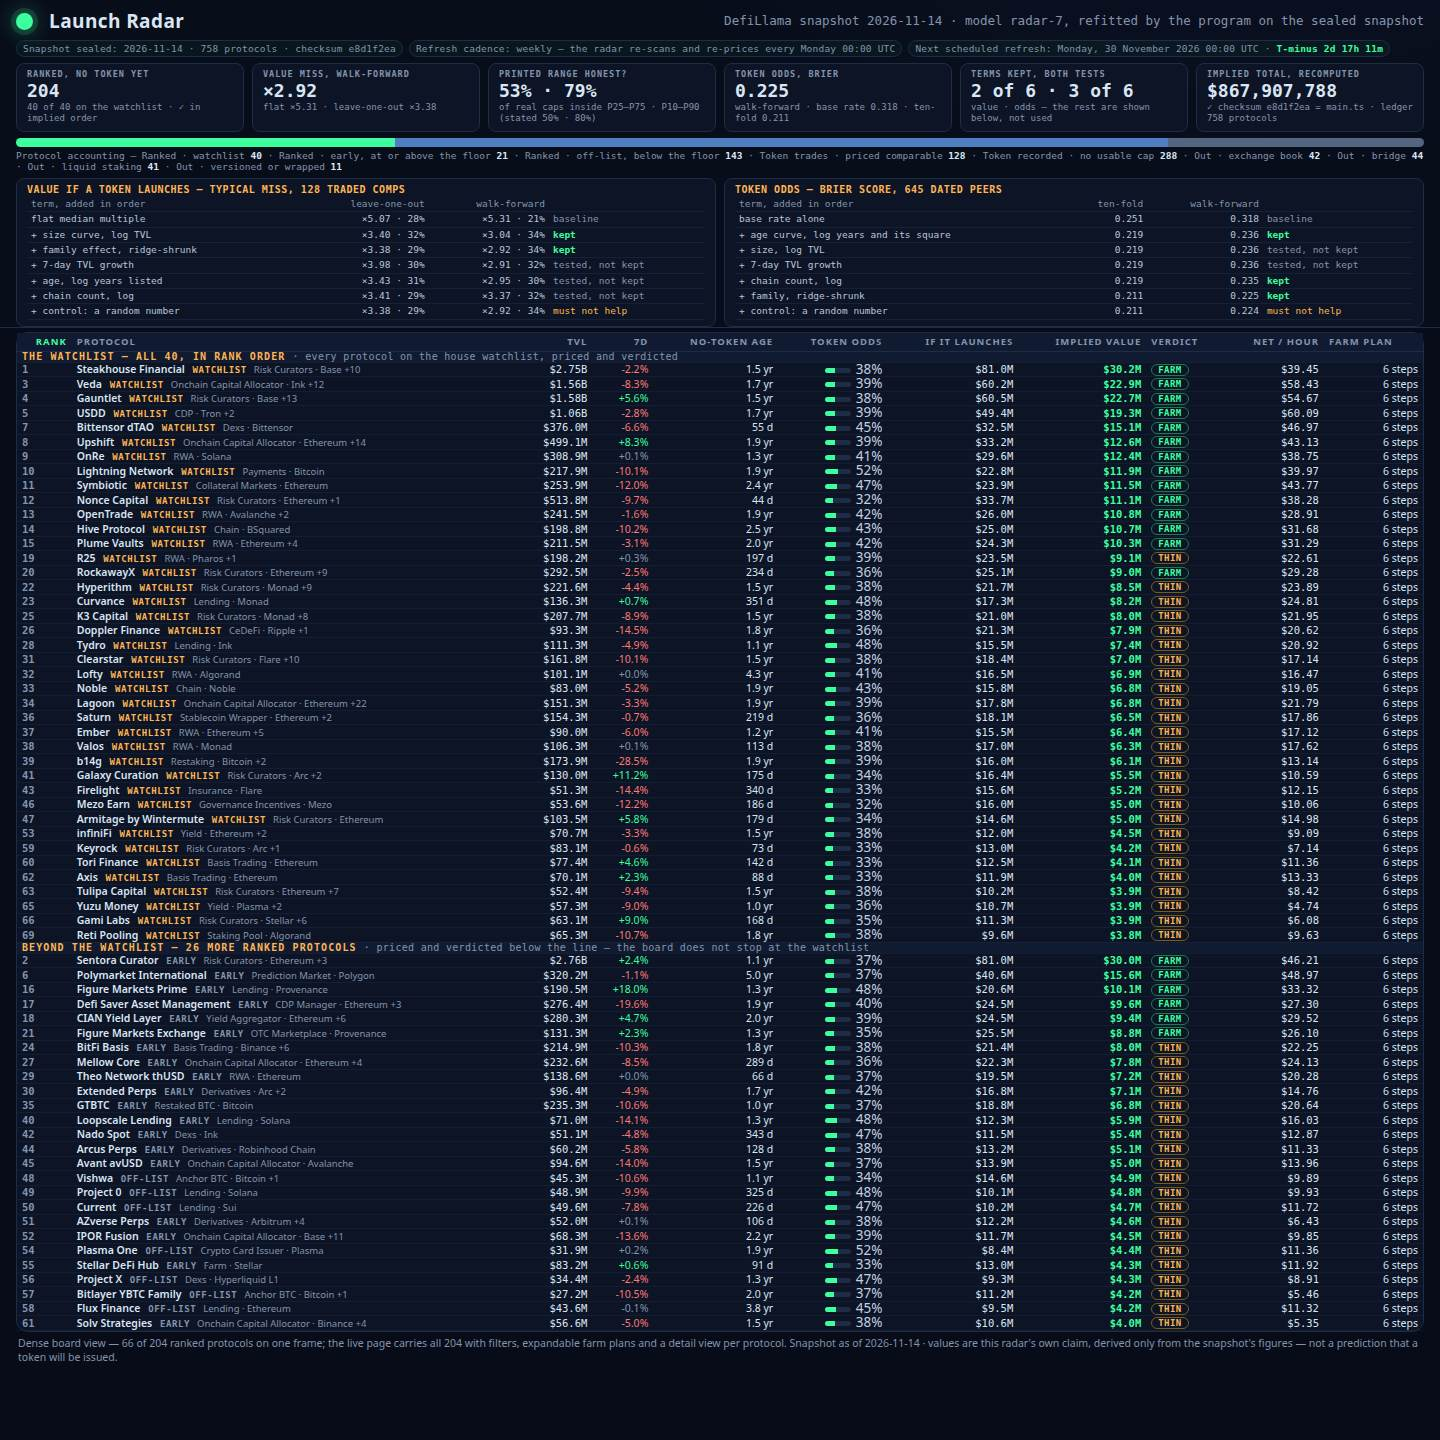
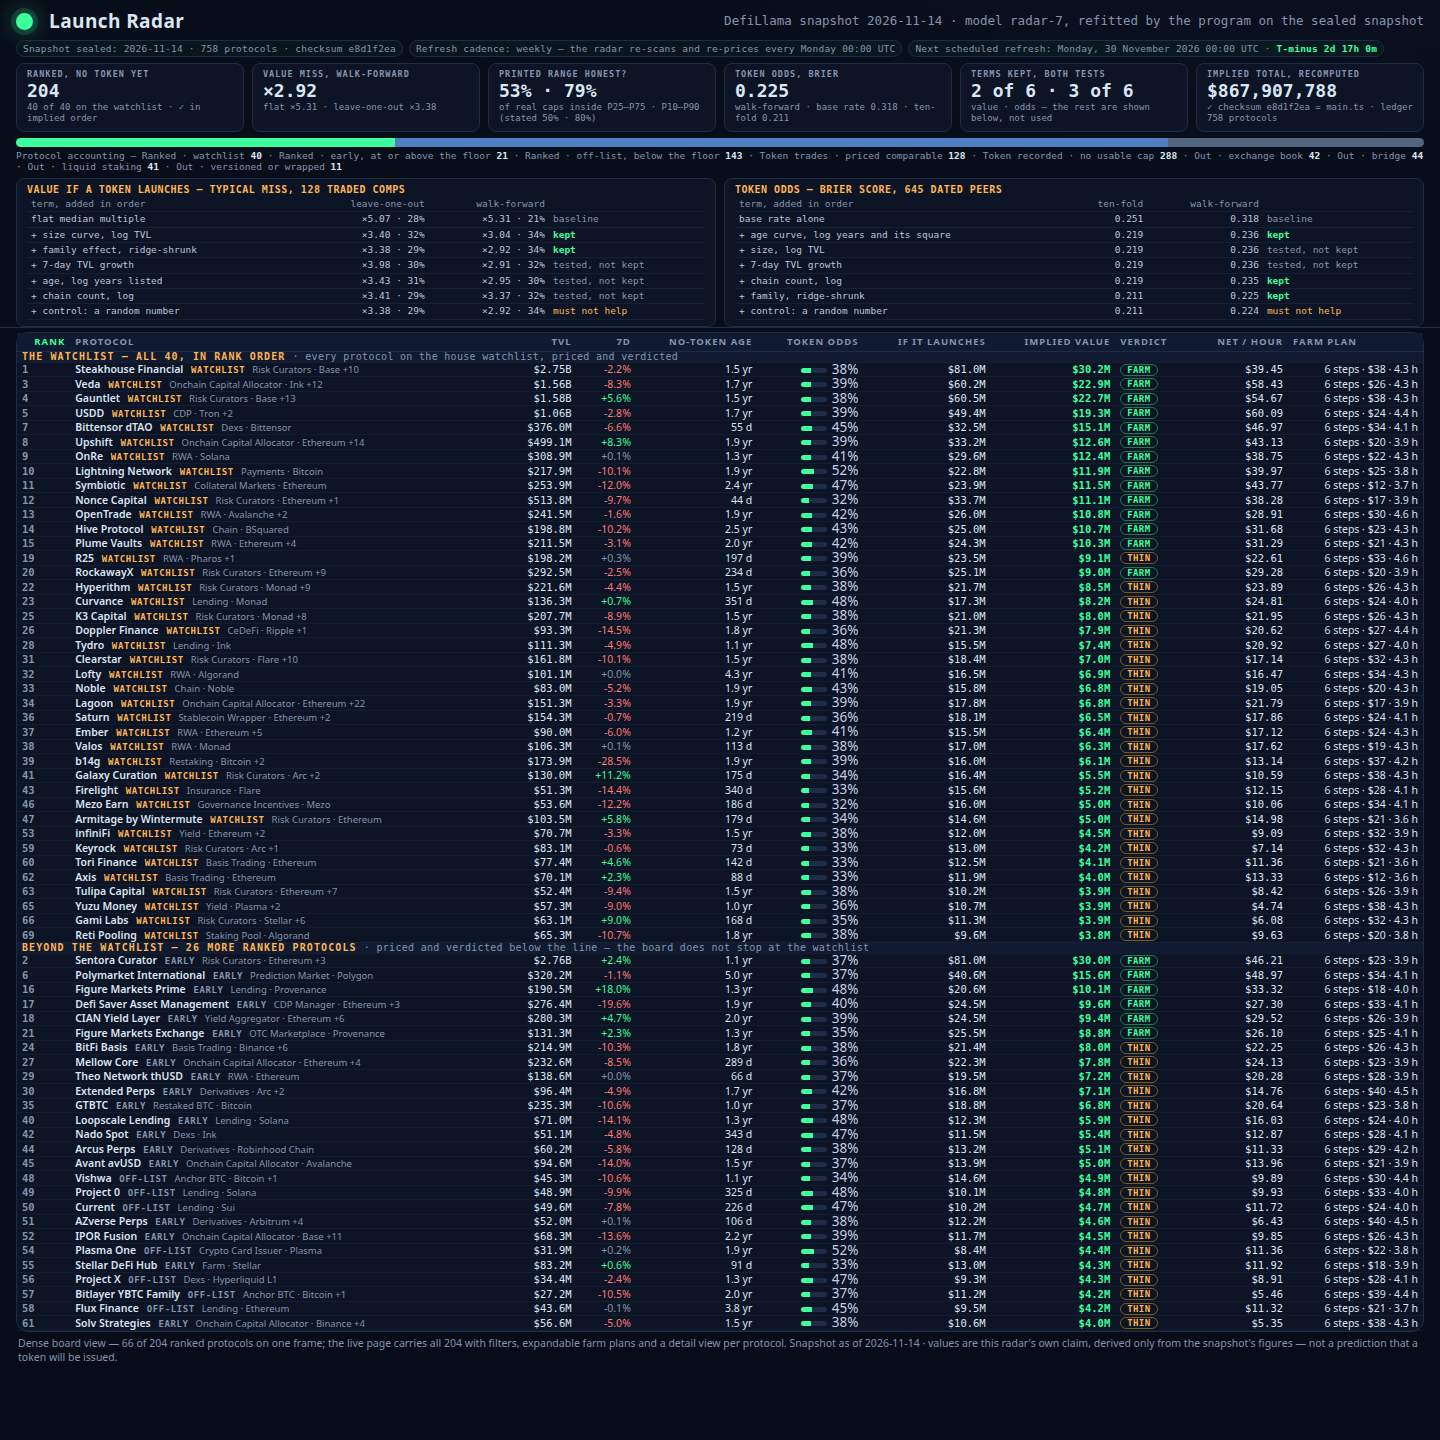
Gate round 2 fix: the farm plan's cost and hours on every dense row
Round 2 (verdict rate 1.00) put criteria 1-2 even with the top 5 and moved
every score up (0.15/0.15/0.10/0.35/0.60 -> 0.30/0.25/0.25/0.30/0.75), but
the losses now separate on criterion 3: the winners print each row's plan
cost and time on the board frame, where the dense rows said only '6 steps'.
Each dense row now carries its plan's fees and hours beside the step count,
priced by the same econ() the live page re-prices with.

diff --git a/dashboard/radar.js b/dashboard/radar.js
@@ -154,7 +154,7 @@ function renderChips() {
 const vChip = (v) => (v === 'kept' ? '<span class="keep">kept</span>' : v === 'baseline' ? '<span class="drop">baseline</span>' : v.startsWith('must') ? '<span class="ctrl">must not help</span>' : v.includes('noise') ? '<span class="ctrl">noise-level gain, not admitted</span>' : '<span class="drop">tested, not kept</span>');
 
 // The dense board's evidence deck: headline cards, the accounting bar and the
-// two held-out ladders, generated from the model's evidence onto the board.
+// two held-out ladders, from the model's evidence.
 function renderDenseDeck() {
   const k = M.kpis, h = M.honesty, c = M.chips;
   const byRank = [...rows].sort((a, b) => a.rank - b.rank);
@@ -326,7 +326,7 @@ function renderDenseBoard() {
       <td class="num val">${money(r.implied_value_usd)}</td>
       <td><span class="tag ${vClass(e.label)}">${e.label}</span></td>
       <td class="num money">${perHourText(e.perHour)}</td>
-      <td class="num">${r.plan.length} steps</td>
+      <td class="num">${r.plan.length} steps · $${e.fees} · ${e.hours.toFixed(1)} h</td>
     </tr>`;
   };
   let html = '';
